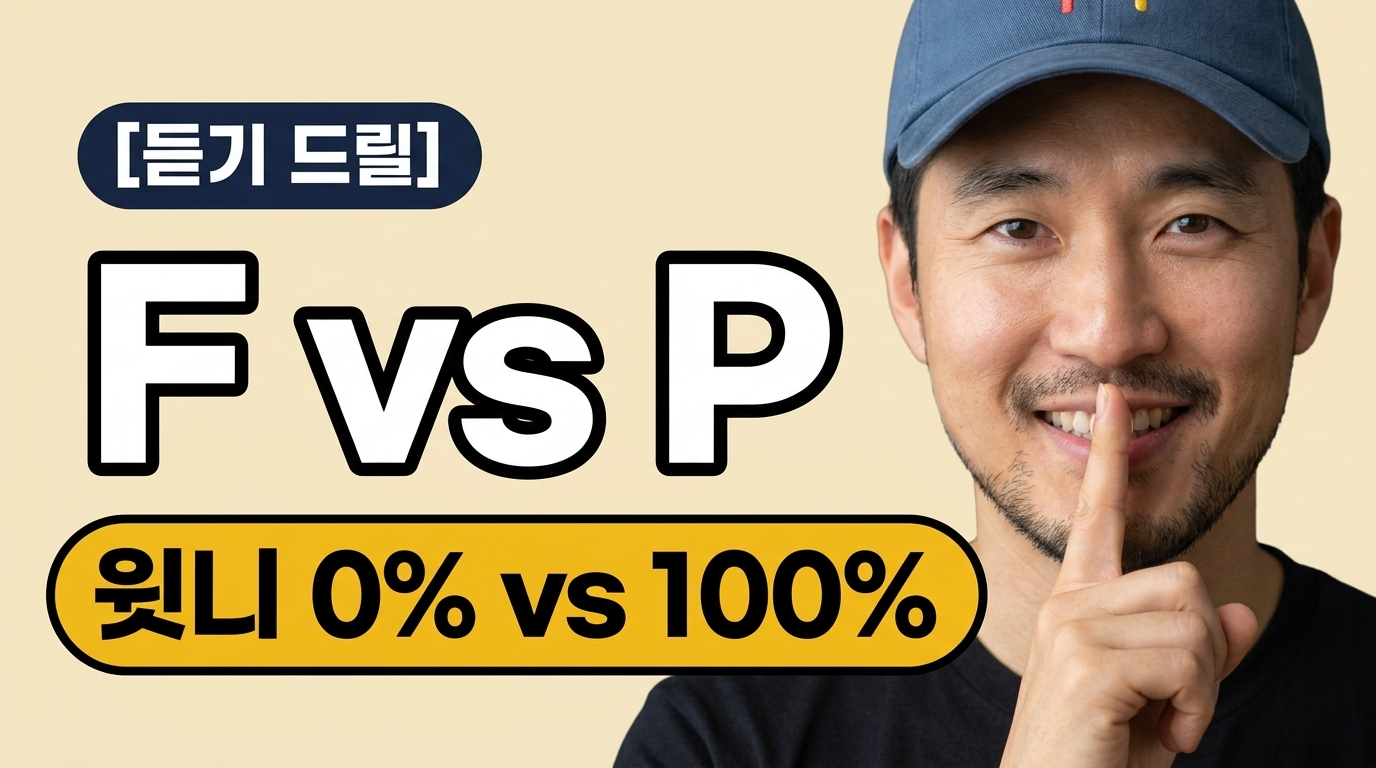
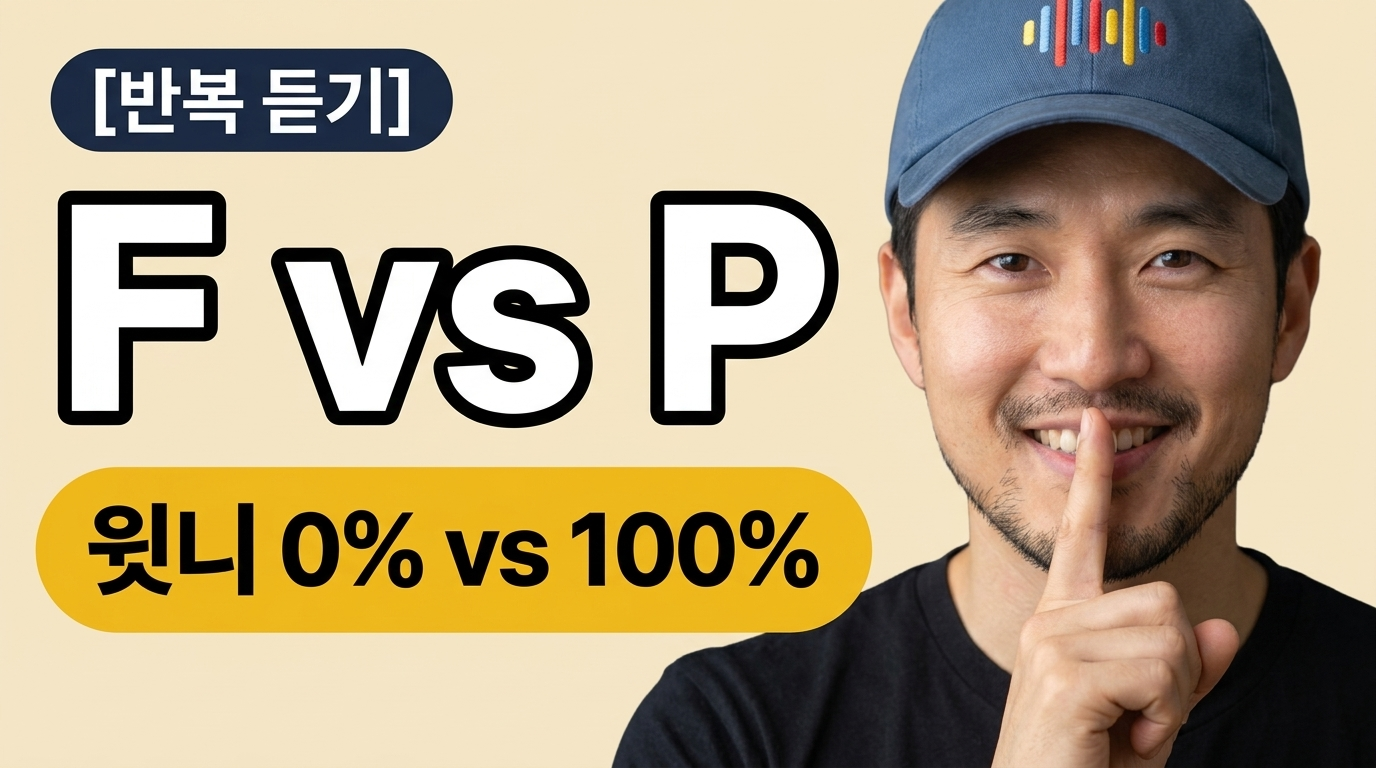
fix: 스킬 및 전역 규칙에 '드릴' 등 전문용어 노출 절대 금지 원칙 제정 및 썸네일/패키지 전면 정정
- .claude/skills/episode-planning/SKILL.md 내 [듣기 드릴] 잔재 완전 삭제 및 친숙한 일상어 강제
- AGENTS.md / CLAUDE.md / knowledge/thumbnail-strategy.md에 '드릴' 등 전문용어 대외 노출 절대 금지 전역 규칙 신설
- EP28 썸네일 카테고리 칩 [듣기 드릴] -> [반복 듣기]로 전면 교체 및 썸네일 4종 고화질 재생성/탑재
- EP28 유튜브 제목, 설명, 고정댓글, 체크리스트, BRIEF, SCRIPT, TASKS에서 '드릴' 일체 제거

diff --git a/output/upload-packages/ep28-f-vs-p/index.html b/output/upload-packages/ep28-f-vs-p/index.html
@@ -221,7 +221,7 @@
       <div>
         <div class="badge">🚀 UPLOAD PACKAGE READY</div>
         <h1>EP28 유튜브 업로드 원클릭 패키지</h1>
-        <div class="subtitle">F vs P 0.1초 조음 물리법칙 (윗니 0% vs 100%) 24쌍 반복 듣기 드릴 | 타 PC 렌더링 지원</div>
+        <div class="subtitle">F vs P 0.1초 소리 물리법칙 (윗니 0% vs 100%) 24쌍 반복 듣기 | 타 PC 렌더링 지원</div>
       </div>
       <div>
         <span class="rec-tag" style="padding: 8px 16px; font-size: 14px;">타임라인 총 6분 55초 (415.61s)</span>
@@ -245,7 +245,7 @@
           <span>📌 유튜브 영상 제목 (메인 채택)</span>
           <button class="copy-btn" onclick="copyText('titleBox', this)">복사하기</button>
         </div>
-        <div class="text-box" id="titleBox">원어민이 F와 P를 0.1초 만에 구별하는 법 | F vs P 24쌍 반복 듣기 드릴</div>
+        <div class="text-box" id="titleBox">원어민이 F와 P를 0.1초 만에 구별하는 법 | F vs P 24쌍 반복 듣기</div>
       </div>
 
       <!-- Checklist -->
@@ -254,7 +254,7 @@
           <span>📋 업로드 체크리스트</span>
         </div>
         <div class="text-box" style="font-size: 13px;">[EP28 유튜브 업로드 체크리스트]
-- 에피소드: ep28-f-vs-p (F vs P 0.1초 조음 물리법칙 24쌍 듣기 드릴)
+- 에피소드: ep28-f-vs-p (F vs P 0.1초 소리 물리법칙 24쌍 반복 듣기)
 - 영상 길이: 6분 55.6초 (415.61s) / 엔드스크린 10초 탑재
 - 최종 영상 파일명: English_Pronunciation_F_vs_P_Minimal_Pairs_Listening_Drill.mp4
 - 타 PC 렌더링 명령어:
@@ -265,7 +265,7 @@
   [A안 상식파괴] thumbnail-variant-a.jpg ("입술 물면 틀립니다")
   [B안 직격형] thumbnail-variant-b.jpg ("Coffee와 Copy, 입술 닿는 순간 탈락")
 - 카테고리: 교육 (Education)
-- 재생목록: [이해하면 쉬운영어] 집중 듣기 드릴 정주행
+- 재생목록: [이해하면 쉬운영어] 반복 듣기 정주행
 - 최종 태그: 19개 핵심 키워드 탑재 완료
 - 자막: 한국어 오디오 내장 + Whisper 타임라인 완비
 </div>
@@ -329,13 +329,13 @@
           <button class="copy-btn" onclick="copyText('variantsBox', this)">복사하기</button>
         </div>
         <div class="text-box" id="variantsBox" style="max-height: 400px; font-size: 13px;">Variant 1 (메인 채택 · 물리법칙형):
-원어민이 F와 P를 0.1초 만에 구별하는 법 | F vs P 24쌍 반복 듣기 드릴
+원어민이 F와 P를 0.1초 만에 구별하는 법 | F vs P 24쌍 반복 듣기
 
 Variant 2 (대조군 · 실수경고형):
-Coffee와 Copy, 입술 닿는 순간 갈립니다 | F vs P 24쌍 반복 듣기 드릴
+Coffee와 Copy, 입술 닿는 순간 갈립니다 | F vs P 24쌍 반복 듣기
 
 Variant 3 (대조군 · 상식파괴형):
-F 발음할 때 아랫입술 물면 틀립니다! 원어민의 0.1초 비밀 | F vs P 청취 드릴
+F 발음할 때 아랫입술 물면 틀립니다! 원어민의 0.1초 비밀 | F vs P 소리 훈련
 
 Variant 4 (간결 집중형):
 [30분 듣기] F와 P가 죽어도 안 들렸던 진짜 이유 | 윗니 0% vs 100% 물리법칙
@@ -360,7 +360,7 @@ Variant 4 (간결 집중형):
             </div>
             <div class="prompt-box">
               <strong>파일명:</strong> thumbnail-close-up.jpg<br>
-              <strong>카피:</strong> [듣기 드릴] F vs P 윗니 0% vs 100%
+              <strong>카피:</strong> [반복 듣기] F vs P 윗니 0% vs 100%
             </div>
           </div>
           <div class="thumb-card">
@@ -374,7 +374,7 @@ Variant 4 (간결 집중형):
             </div>
             <div class="prompt-box">
               <strong>파일명:</strong> thumbnail.jpg<br>
-              <strong>카피:</strong> [듣기 드릴] F vs P 윗니 0% vs 100%
+              <strong>카피:</strong> [반복 듣기] F vs P 윗니 0% vs 100%
             </div>
           </div>
           <div class="thumb-card">
@@ -387,7 +387,7 @@ Variant 4 (간결 집중형):
             </div>
             <div class="prompt-box">
               <strong>파일명:</strong> thumbnail-variant-a.jpg<br>
-              <strong>카피:</strong> [듣기 드릴] F 발음할 때 입술 물면 틀립니다
+              <strong>카피:</strong> [반복 듣기] F 발음할 때 입술 물면 틀립니다
             </div>
           </div>
           <div class="thumb-card">
@@ -412,7 +412,7 @@ Variant 4 (간결 집중형):
           <span>💬 고정 댓글</span>
           <button class="copy-btn" onclick="copyText('pinBox', this)">복사하기</button>
         </div>
-        <div class="text-box" id="pinBox">오늘도 F vs P 24쌍 반복 듣기 드릴 훈련을 끝까지 완주하신 여러분, 정말 고생하셨습니다! 👏
+        <div class="text-box" id="pinBox">오늘도 F vs P 24쌍 반복 듣기 훈련을 끝까지 완주하신 여러분, 정말 고생하셨습니다! 👏
 
 💬 여러분은 24개 짝단어 중 어떤 단어가 귀로 가장 구분하기 어려우셨나요?
 (예: Coffee vs Copy? Leaf vs Leap? Fool vs Pool?)

diff --git a/videos/ep28-f-vs-p/prompts/thumbnail-prompts.md b/videos/ep28-f-vs-p/prompts/thumbnail-prompts.md
@@ -1,8 +1,8 @@
-# EP28 (F vs P 자음 짝단어 24쌍 반복 청취 드릴) 썸네일 생성 프롬프트 (4종 세트)
+# EP28 (F vs P 자음 짝단어 24쌍 반복 듣기 훈련) 썸네일 생성 프롬프트 (4종 세트)
 
 - **에피소드 ID**: `ep28-f-vs-p`
-- **주제**: F vs P 0.1초 조음 물리법칙 (윗니 0% 파열 vs 윗니 100% 아랫입술 안쪽 마찰) 24쌍 집중 반복 듣기 드릴
-- **메인 채택**: **4안 (물리법칙형)** (`원어민이 F와 P를 0.1초 만에 구별하는 법 | F vs P 24쌍 반복 듣기 드릴`)
+- **주제**: F vs P 0.1초 조음 물리법칙 (윗니 0% vs 100%) 24쌍 집중 반복 듣기 훈련
+- **메인 채택**: **4안 (물리법칙형)** (`원어민이 F와 P를 0.1초 만에 구별하는 법 | F vs P 24쌍 반복 듣기`)
 - **디자인 스타일**: 웜크림 네오브루탈리즘 (단색 웜크림 배경 `#F7F4EE`, 플랫 화이트 앵커 텍스트, 골드 알약 캡슐 `#F5C518`, 채널 공식 아바타)
 
 ---
@@ -10,10 +10,10 @@
 ## 1. Main Variant (메인 채택 · 바스트샷 와이드, thumbnail.jpg)
 
 ```text
-A high-CTR, photorealistic YouTube thumbnail for Korean English-pronunciation education channel '이해하면 쉬운영어' (target: 3060 adult learners), 16:9 horizontal, on the topic "F vs P 0.1초 조음 물리법칙 짝단어 듣기 드릴". This must match the channel's established house style exactly — do not invent a different look.
+A high-CTR, photorealistic YouTube thumbnail for Korean English-pronunciation education channel '이해하면 쉬운영어' (target: 3060 adult learners), 16:9 horizontal, on the topic "F vs P 0.1초 소리 물리법칙 짝단어 반복 듣기". This must match the channel's established house style exactly — do not invent a different look.
 
 === TEXT CONTENT (render each quoted string below exactly character-for-character) ===
-- Category Pill (top-left): "[듣기 드릴]" in a compact dark navy pill with white text.
+- Category Pill (top-left): "[반복 듣기]" in a compact dark navy pill with white text.
 - Anchor line: "F vs P" — massive, on its own line, crisp white flat lettering with heavy black outline.
 - Pill phrase: "윗니 0% vs 100%" — rendered entirely inside one solid warm-yellow (#F5C518) rounded pill shape with bold black lettering and black outline.
 Do not render any extra text, no channel name, no logo watermark, no UI mockup text.
@@ -38,7 +38,7 @@ NEGATIVE: Do NOT put the anchor line inside a colored box. Do NOT add neon glow,
 A high-CTR, photorealistic YouTube thumbnail for Korean English-pronunciation education channel '이해하면 쉬운영어' (target: 3060 adult learners), 16:9 horizontal, on the topic "F vs P 발음 구별 원리". Mobile extreme close-up variant.
 
 === TEXT CONTENT (render each quoted string below exactly character-for-character) ===
-- Category Pill (top-left): "[듣기 드릴]" in a compact dark navy pill with white text.
+- Category Pill (top-left): "[반복 듣기]" in a compact dark navy pill with white text.
 - Anchor line: "F vs P" — massive, on its own line, crisp white flat lettering with heavy black outline.
 - Pill phrase: "윗니 0% vs 100%" — rendered entirely inside one solid warm-yellow (#F5C518) rounded pill shape with bold black lettering and black outline.
 Do not render any extra text, no channel name, no logo watermark.
@@ -63,7 +63,7 @@ NEGATIVE: No neon, no glow, no 3D chrome, no complex background patterns. No wat
 A high-CTR, photorealistic YouTube thumbnail for Korean English-pronunciation education channel '이해하면 쉬운영어' (target: 3060 adult learners), 16:9 horizontal, on the topic "F 발음할 때 입술 물면 틀립니다". This must match the channel's established house style exactly.
 
 === TEXT CONTENT (render each quoted string below exactly character-for-character) ===
-- Category Pill (top-left): "[듣기 드릴]" in a compact dark navy pill with white text.
+- Category Pill (top-left): "[반복 듣기]" in a compact dark navy pill with white text.
 - Anchor line: "F 발음할 때" — massive, on its own line, crisp flat white lettering with heavy black outline.
 - Pill phrase: "입술 물면 틀립니다" — rendered entirely inside one solid warm-yellow (#F5C518) rounded pill shape with bold black lettering and black outline.
 Do not render any extra text, no channel name, no logo watermark.

diff --git a/.claude/skills/episode-planning/SKILL.md b/.claude/skills/episode-planning/SKILL.md
@@ -277,8 +277,13 @@ A/B/C 3종을 실제로 만들어 테스트에 올린 전례). **3개 시안 전
   표지판 등)는 참고만 한다. 문장을 베끼지 않는다.
 - **듣기 방식이면 학습 유형을 제목과 썸네일에 드러낸다**(2026-10-04 사용자 지침 — 나레이션이 없어서
   영상이 무엇인지 말로 설명할 수 없기 때문):
-  - 제목 앞부분에 학습 유형 표기를 넣는다. 예: `[30분 듣기]`, `[듣기 드릴]`.
-  - 썸네일 상단 좌측에 **학습 유형 칩**을 하나 넣는다. 2단어 이하(예: `듣기 드릴`).
+  - ⚠ **'드릴(drill)' 등 일반인이 직관적으로 모르는 전문·교육학 용어 사용 절대 금지 (제목·썸네일 칩·카피·나레이션·화면 전 영역, 2026-10-10 영구 확정)**:
+    - ❌ 절대 금지: `[듣기 드릴]`, `반복 듣기 드릴`, `발음 드릴`, `미니멀 페어(Minimal Pairs)`, `치찰음`, `파열음`, `순치음` 등
+    - ⭕ 친숙한 일상어 (3060 국내 성인 학습자가 0.1초 만에 체감하는 단어):
+      - 썸네일 칩: `[집중 듣기]`, `[반복 듣기]`, `[소리 연습]`, `[귀 뚫림]`, `[발음 훈련]`, `[실수 주의]` (2단어 이하)
+      - 제목: `[30분 듣기] ... 24쌍 반복 듣기`, `... 24쌍 귀 뚫림`, `... 24쌍 소리 구분`
+  - 제목 앞부분에 학습 유형 표기를 넣는다. 예: `[30분 듣기]`, `[반복 듣기]`.
+  - 썸네일 상단 좌측에 **학습 유형 칩**을 하나 넣는다. 2단어 이하(예: `[반복 듣기]`, `[집중 듣기]`).
   - 5단어 제한은 칩을 뺀 **앵커 + 알약 문구**에 적용한다. 칩까지 합치면 최대 7단어다.
   - 칩은 학습 유형 표기이지 채널명 배지가 아니다. 채널명 배지 금지 규칙과 구별한다.
 
@@ -401,8 +406,9 @@ A/B/C 3종을 실제로 만들어 테스트에 올린 전례). **3개 시안 전
 5. **원어민 단어 오디오 재사용 설계 (듣기 롱폼)**:
    - 반복되는 단어는 1개 파일당 1회씩 깨끗하게 생성하도록 가이드하고, 타임라인(HyperFrames)에서 3초 간격 루프로 재생한다.
    - 섞어 듣기나 복습 프레임은 새로 생성하지 않고 기존 단어 파일들을 재배열하여 재사용하도록 명시하여 생성 비용과 작업 시간을 절감한다.
-6. **전문 용어 배제 (교육학 용어 '드릴' ➔ '반복 듣기', '소리 연습')**:
-   - 시청자가 듣는 나레이션 및 화면 카드에는 '드릴(drill)' 같은 교수 설계 용어를 절대 쓰지 않고, '반복 듣기', '소리 연습', '집중 듣기' 등 친숙한 일상어로 쓴다.
+6. **일반 시청자 모르는 전문·교육학 용어('드릴' 등) 표출 영구 금지 (제목·썸네일·나레이션·화면 UI 전 영역, 2026-10-10 확정)**:
+   - ⚠ 시청자가 접하는 모든 접점(유튜브 제목, 썸네일 칩/카피, 호스트 나레이션, 자막, 화면 카드 라벨)에서 '드릴(drill)', '미니멀 페어(Minimal Pairs)', '조음', '파열음', '마찰음', '치찰음' 같은 교수 설계 및 음성학 전문 용어를 절대 쓰지 않는다.
+   - 반드시 '반복 듣기', '소리 연습', '집중 듣기', '귀 훈련', '짝단어' 등 국내 거주 3060 일반 성인 학습자가 0.1초 만에 이해하는 직관적 일상어로 전면 대체한다.
 7. **단어 읽기 시 끝소리 급단절(뚝뚝 끊김/클리핑) 방지 및 음향 블렌딩 표준 (2026-10-07 확정, 사용자 피드백 반영)**:
    - ⚠ **원인**: 단어 뒤에 마침표(`.`)가 있거나 단어만 단독 제공되면 TTS 엔진이 즉각 급브레이크를 밟아 끝소리(파열음·모음 감쇄)를 칼같이 잘라버리고, 영상에서 뚝뚝 끊기는 스태카토 현상이 발생함.
    - **TTS 텍스트 규칙 (쉼표 배치)**: 단어 나열 시 마침표(`.`)를 엄격히 금지하고, 반드시 쉼표(`,`)나 줄임표(`...`)를 붙여 작성한다 (예: `sheep, ship, feet, fit,`). 쉼표가 있어야 AI가 뒤에 말이 이어지는 것으로 인식해 끝소리를 부드럽게 늘여주고 자연스러운 숨 여운(Decay)을 남긴다.

diff --git a/knowledge/logs/2026-10.md b/knowledge/logs/2026-10.md
@@ -506,5 +506,15 @@
     - `tags.txt`: 19개 핵심 SEO 검색 태그 (500자 최적화)
     - `status.json` / `upload-checklist.txt`: 타 PC 렌더링 명령어 및 업로드 검수 가이드
     - `index.html`: 타 PC 렌더링 명령어 복사, 유튜브 스튜디오 메타데이터 원클릭 복사, 썸네일 프롬프트 가이드가 포함된 프리미엄 다크 글래스모피즘 대시보드
+- **전문·교육학 용어('드릴' 등) 표출 영구 금지 규칙 제정 및 썸네일 4종 전면 재제작 (2026-10-10)**:
+  - **사용자 엄중 지적**: "드릴같은 일반 사람이 모르는 단어는 쓰지마라니깐? 스킬에 이 내용 없어?"
+  - **원인 분석**: 스킬 문서(`.claude/skills/episode-planning/SKILL.md` Line 280~281)에 과거 잔재로 `[듣기 드릴]`이 예시로 남아있어, 나레이션에서는 '드릴'을 배제했음에도 썸네일 카테고리 칩 및 제목에 `[듣기 드릴]`이 그대로 노출되었던 구조적 결함 확인.
+  - **전역 규칙 제정 및 스킬 동기화**:
+    - `AGENTS.md`, `CLAUDE.md`, `.claude/skills/episode-planning/SKILL.md`, `knowledge/thumbnail-strategy.md` 4대 핵심 문서에 "일반 대중 시청자 대상 전문·교육학 용어('드릴', '미니멀 페어' 등) 표출 절대 금지 원칙"을 영구 등재.
+    - 썸네일 카테고리 칩: `[듣기 드릴]` 영구 금지 ➔ `[반복 듣기]`, `[집중 듣기]`, `[소리 연습]`, `[귀 뚫림]`, `[실수 주의]` 등 친숙한 일상어로 100% 강제.
+    - 유튜브 제목: `... 24쌍 반복 듣기 드릴` ➔ `... 24쌍 반복 듣기` (또는 `24쌍 귀 뚫림`, `24쌍 소리 훈련`).
+  - **EP28 즉각 시정 및 썸네일 4종 재생성 완료**:
+    - `prompts/thumbnail-prompts.md`, `BRIEF.md`, `SCRIPT.md`, `TASKS.md`, `build-package.mjs`의 대외 노출 문구에서 '드릴' 전면 삭제 및 `[반복 듣기]`로 변경.
+    - 썸네일 4종을 상단 칩 `[반복 듣기]`로 재생성하여 `output/upload-packages/ep28-f-vs-p/` 및 `.thumbnails/`에 교체 탑재 완료.
 
 

diff --git a/knowledge/thumbnail-strategy.md b/knowledge/thumbnail-strategy.md
@@ -34,6 +34,7 @@
 - **길이**: 50자 이내, 모바일에서 안 잘리게.
 - **궁금증**: 정답을 제목에서 다 말하지 않는다(특히 퀴즈형 Track A는 정답 발음을 절대 노출하지 않는다 — 기존 TTS 규칙과 동일한 원칙).
 - **제목=호기심 유발, 썸네일 문구=시청 후 얻는 결과**로 역할을 분리한다(중복 금지). 검색 노출은 제목에서만 일어나므로 검색될 만한 키워드(단어 철자, "-CIAL" 등)는 제목에 넣는다.
+- ⚠ **일반 시청자가 모르는 전문·교육학 용어('드릴' 등) 절대 금지 (2026-10-10 확정)**: 썸네일 카테고리 칩(Pill), 앵커 텍스트, 골드 알약 문구에 '드릴(drill)', '미니멀 페어(Minimal Pairs)', '조음', '파열음' 등 시청자가 직관적으로 이해하지 못하는 전문·교수설계 용어를 일체 쓰지 않는다. 반드시 `[반복 듣기]`, `[집중 듣기]`, `[소리 연습]`, `[귀 뚫림]`, `[실수 주의]` 등 3060 보통의 국내 성인 학습자가 0.1초 만에 체감하는 친숙한 일상어로 쓴다.
 - **제목은 모바일 3단 구간 감각을 참고해서 쓴다**(2026-09-13 확정, 사용자 제공 외부 자료 근거
   — 2026-09-11의 "앞 30자 이내에 키워드"라는 단순 규칙을 대체·구체화함. 키워드가 앞에 있어도
   그 안에서 뭘 먼저 던지고 뭘 나중에 둘지가 고정돼 있으면 초반 타격감이 죽는다는 문제의식.

diff --git a/videos/ep28-f-vs-p/BRIEF.md b/videos/ep28-f-vs-p/BRIEF.md
@@ -2,14 +2,14 @@
 
 ## 1. 기본 정보
 - **에피소드 ID**: `ep28-f-vs-p`
-- **시즌/포맷**: 단편 / 듣기 드릴형 롱폼 (Listening Drill · 약 12~15분 심화 확장형)
-- **주제**: F vs P 0.1초 조음 물리법칙 (윗니 0% 파열 vs 윗니 100% 마찰) 최소대립쌍(Minimal Pairs) 24쌍 집중 반복 듣기 드릴
+- **시즌/포맷**: 단편 / 반복 듣기 롱폼 (약 12~15분 심화 확장형)
+- **주제**: F vs P 0.1초 소리 물리법칙 (윗니 0% vs 100%) 24쌍 집중 반복 듣기
 - **타겟 시청자**: 3060 성인 영어 학습자 (Coffee나 Copy나 한글로는 똑같이 '피'로 배웠는데, 미드나 유튜브에서 원어민 소리는 전혀 다르게 들려 0.1초 구분이 안 되던 국내 거주 학습자)
 
 ## 2. 확정된 제목 & 썸네일
-- **메인 채택 유튜브 제목 (4안 · 물리법칙형)**: `원어민이 F와 P를 0.1초 만에 구별하는 법 | F vs P 24쌍 반복 듣기 드릴`
+- **메인 채택 유튜브 제목 (4안 · 물리법칙형)**: `원어민이 F와 P를 0.1초 만에 구별하는 법 | F vs P 24쌍 반복 듣기`
 - **확정 썸네일 카피 (메인)**:
-  - 카테고리 칩: `[듣기 드릴]`
+  - 카테고리 칩: `[반복 듣기]`
   - 앵커 텍스트: `F vs P`
   - 골드 알약: `윗니 0% vs 100%`
 - **A/B 테스트 대조군**:

diff --git a/videos/ep28-f-vs-p/TASKS.md b/videos/ep28-f-vs-p/TASKS.md
@@ -7,8 +7,8 @@
   - 주제: F vs P 자음 짝단어 듣기 드릴 (니치 수요 1위 및 성인 학습자 영구 미해결 페인포인트 1위).
   - 포맷: 심화 확장형 롱폼 (12~15분 대용량 드릴, 약 13분 30초~14분 설계).
 - **제목 및 썸네일 확정 (Phase 6)**:
-  - 4안 (물리법칙형) 확정: `원어민이 F와 P를 0.1초 만에 구별하는 법 | F vs P 24쌍 반복 듣기 드릴`
-  - 썸네일 카피: `[듣기 드릴]` (칩) + `F vs P` (화이트 앵커) + `윗니 0% vs 100%` (골드 알약).
+  - 4안 (물리법칙형) 확정: `원어민이 F와 P를 0.1초 만에 구별하는 법 | F vs P 24쌍 반복 듣기`
+  - 썸네일 카피: `[반복 듣기]` (칩) + `F vs P` (화이트 앵커) + `윗니 0% vs 100%` (골드 알약).
   - 썸네일 프롬프트 4종 세트 생성 완료: `prompts/thumbnail-prompts.md`.
 - **프레임 목차 및 스크립트 작성 (Phase 7~8)**:
   - 10개 프레임 구성 확정: `frame.md`.

diff --git a/videos/ep28-f-vs-p/SCRIPT.md b/videos/ep28-f-vs-p/SCRIPT.md
@@ -1,8 +1,8 @@
 # SCRIPT — ep28-f-vs-p
 
 - **에피소드 ID**: `ep28-f-vs-p`
-- **제목**: `원어민이 F와 P를 0.1초 만에 구별하는 법 | F vs P 24쌍 반복 듣기 드릴`
-- **포맷**: 심화 확장형 듣기 드릴 롱폼 (Listening Drill · 약 13~14분)
+- **제목**: `원어민이 F와 P를 0.1초 만에 구별하는 법 | F vs P 24쌍 반복 듣기`
+- **포맷**: 심화 확장형 반복 듣기 롱폼 (약 13~14분)
 - **주제**: F vs P 0.1초 조음 물리법칙 (윗니 0% 파열 vs 윗니 100% 마찰) 24쌍 집중 반복 청취
 
 ---

diff --git a/knowledge/now.md b/knowledge/now.md
@@ -2,7 +2,7 @@
 
 마지막 확인: 2026-10-10
 
-## 📦 제작 완료 및 타 PC 렌더링/업로드 준비 — 단편 EP28(원어민이 F와 P를 0.1초 만에 구별하는 법 | F vs P 24쌍 반복 듣기 드릴)
+## 📦 제작 완료 및 타 PC 렌더링/업로드 준비 — 단편 EP28(원어민이 F와 P를 0.1초 만에 구별하는 법 | F vs P 24쌍 반복 듣기)
 
 - 폴더: `videos/ep28-f-vs-p/`
 - 타임라인: 총 415.61초 (6분 55.6초) / 10개 프레임 완비 + 10초 엔드스크린 구간 탑재 (405.61s~415.61s).
